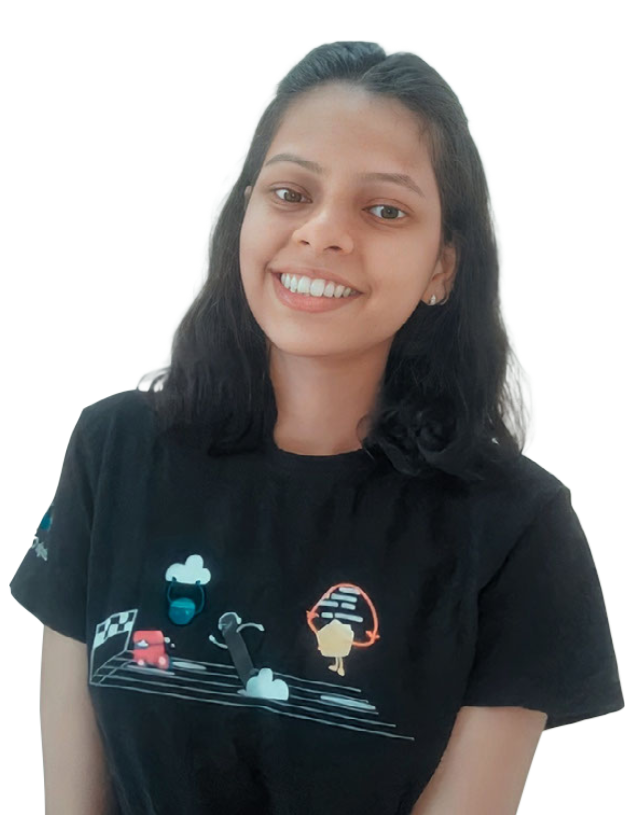
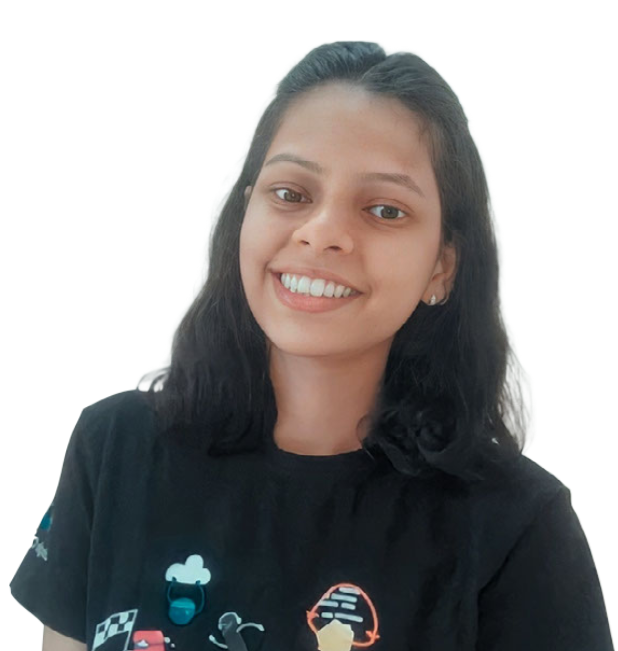
Some pics were changed and made responsiveness

diff --git a/client/src/views/TeamData.js b/client/src/views/TeamData.js
@@ -26,8 +26,8 @@ const TeamData = {
     },
     {
       name: 'Hritvikk Gupta',
-      imagen: require('../assets/img/Hritvikk2.png'),
-      imagep: require('../assets/img/Hritvik.png'),
+      imagen: require('../assets/img/Hritvikk1.png'),
+      imagep: require('../assets/img/Hritvikk2.png'),
       linkedInLink: 'http://www.linkedin.com/in/hritvikk-gupta',
       githubLink: 'https://github.com/Hritvikk',
       classname: 'person-badge ${classes.large} shadow-lg',
@@ -65,10 +65,10 @@ const TeamData = {
   'Public Relations Cores': [
     {
       name: 'Pracheeti Bhukan',
-      imagen: require('../assets/img/Prachiti.png'),
+      imagen: require('../assets/img/Pracheeti1.png'),
       imagep: require('../assets/img/Pracheeti2.png'),
-      linkedInLink: '#',
-      githubLink: '#',
+      linkedInLink: 'https://www.linkedin.com/in/prachiti-bhukan-5302921b0',
+      githubLink: 'https://github.com/Prachiti-bhukan',
       classname: 'person-badge ${classes.large} shadow-lg',
       classname1: ' row person mt-4'
     },
@@ -92,15 +92,15 @@ const TeamData = {
       name: 'Pari Zunake',
       imagen: require('../assets/img/Pari1.png'),
       imagep: require('../assets/img/Pari2.png'),
-      linkedInLink: '',
-      githubLink: '',
+      linkedInLink: 'https://www.linkedin.com/in/pari-zunake-4b92911b7',
+      githubLink: 'http://github.com/parizunake',
       classname: 'person-badge ${classes.large} shadow-lg'
     },
     {
       name: 'Mihir Pankhawala',
       imagen: require('../assets/img/Mihir1.png'),
       imagep: require('../assets/img/Mihir2.png'),
-      linkedInLink: '#',
+      linkedInLink: 'https://www.linkedin.com/in/mihir-pankhawala-baa2531bb/',
       githubLink: '#',
       classname: 'person-badge ${classes.large} shadow-lg'
     }
@@ -124,8 +124,8 @@ const TeamData = {
     },
     {
       name: 'Pratiksha Surve',
-      imagen: require('../assets/img/Pratiksha2.png'),
-      imagep: require('../assets/img/Pratiksha.png'),
+      imagen: require('../assets/img/Pratiksha1.png'),
+      imagep: require('../assets/img/Pratiksha2.png'),
       linkedInLink: 'https://www.linkedin.com/in/pratiksha-surve-a26600203',
       githubLink: 'https://github.com/pratiksha2811',
       classname: 'person-badge ${classes.large} shadow-lg'

diff --git a/client/src/views/Team.jsx b/client/src/views/Team.jsx
@@ -15,7 +15,6 @@ const TeamMember = (props) => {
         <img
           className='normal'
           src={process.env.PUBLIC_URL + props.member.imagen}
-          height="200"
         />
         <img
           className='peculiar'
